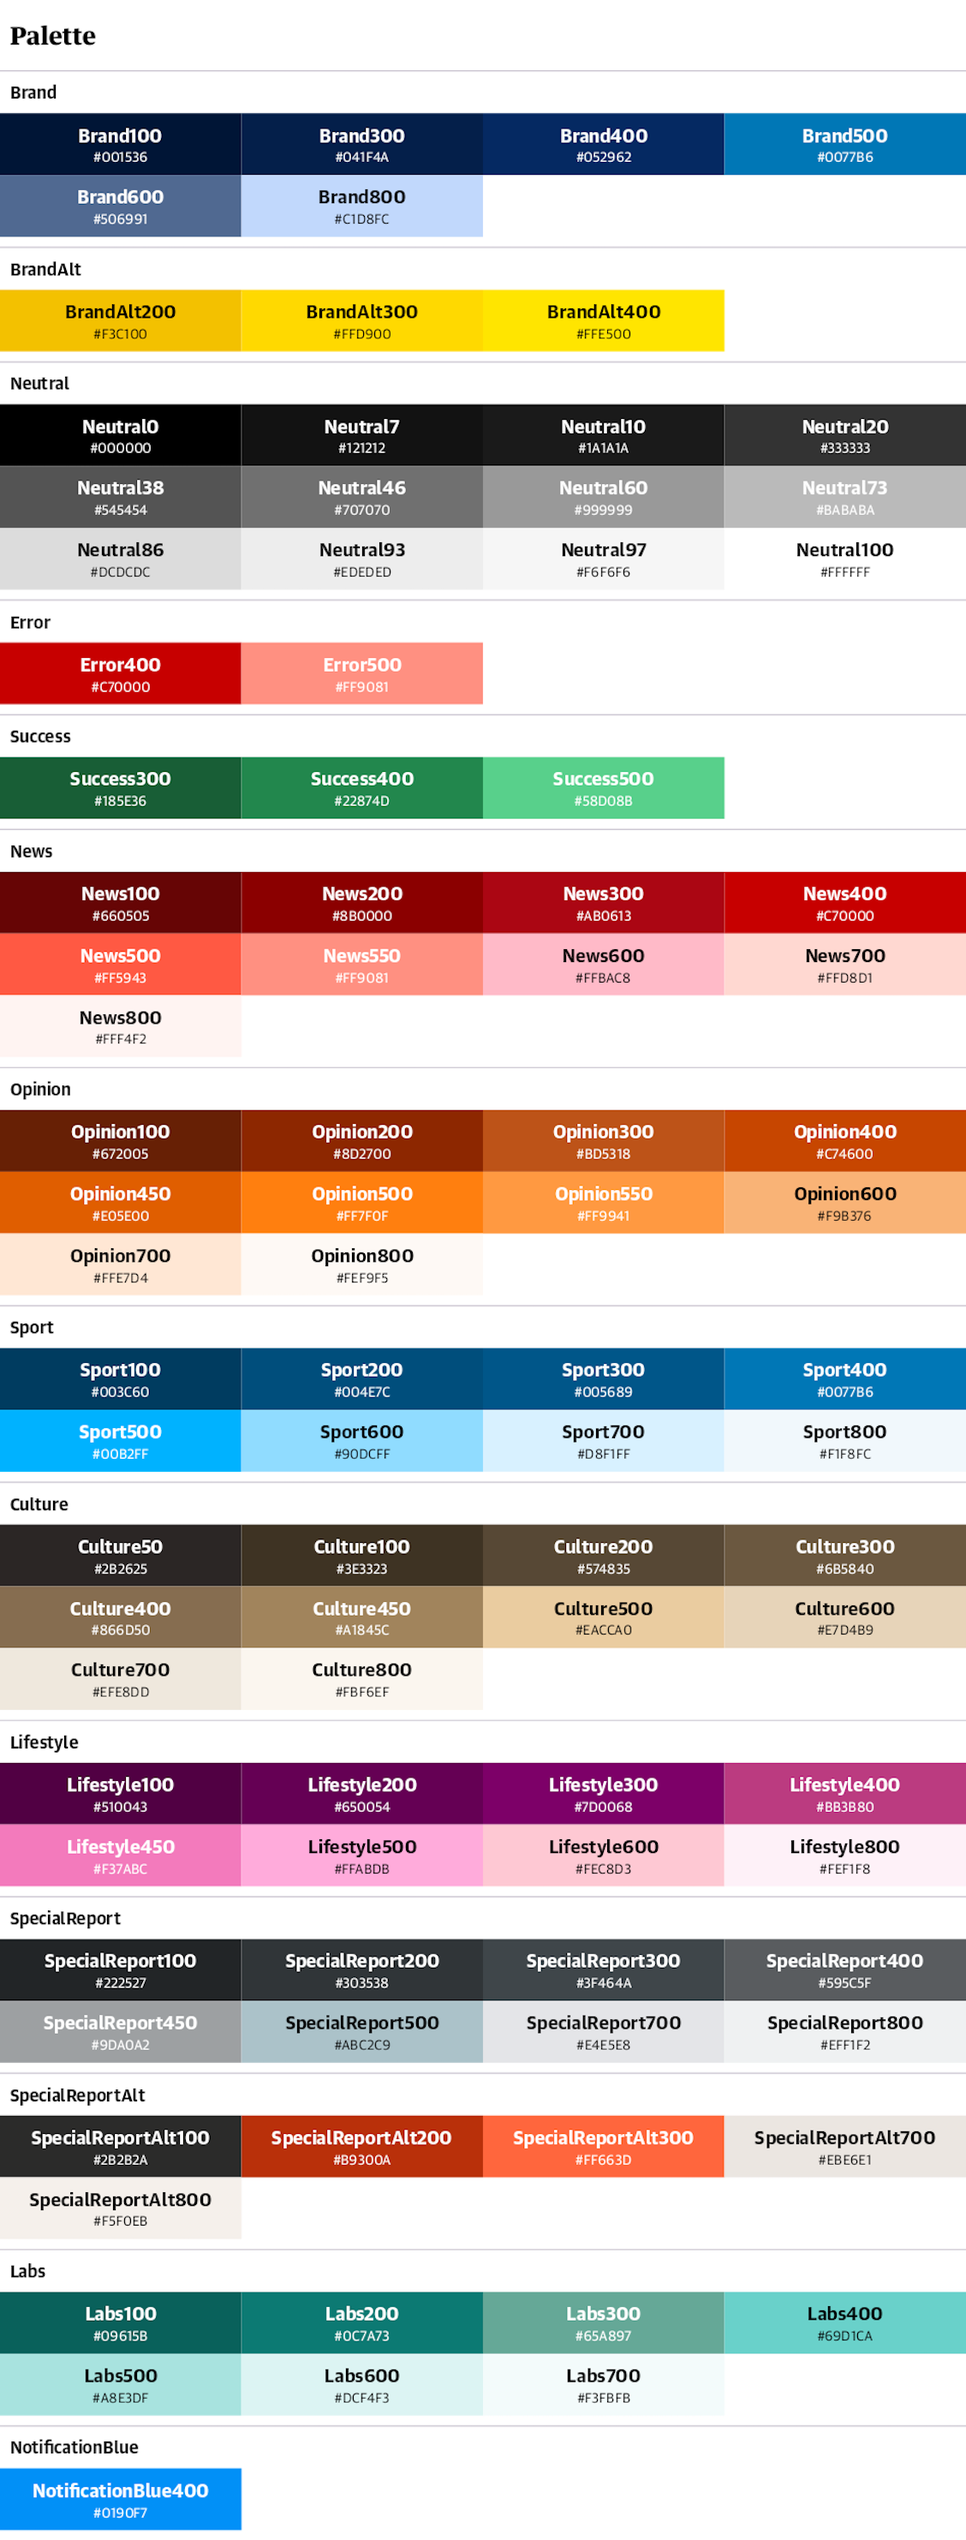
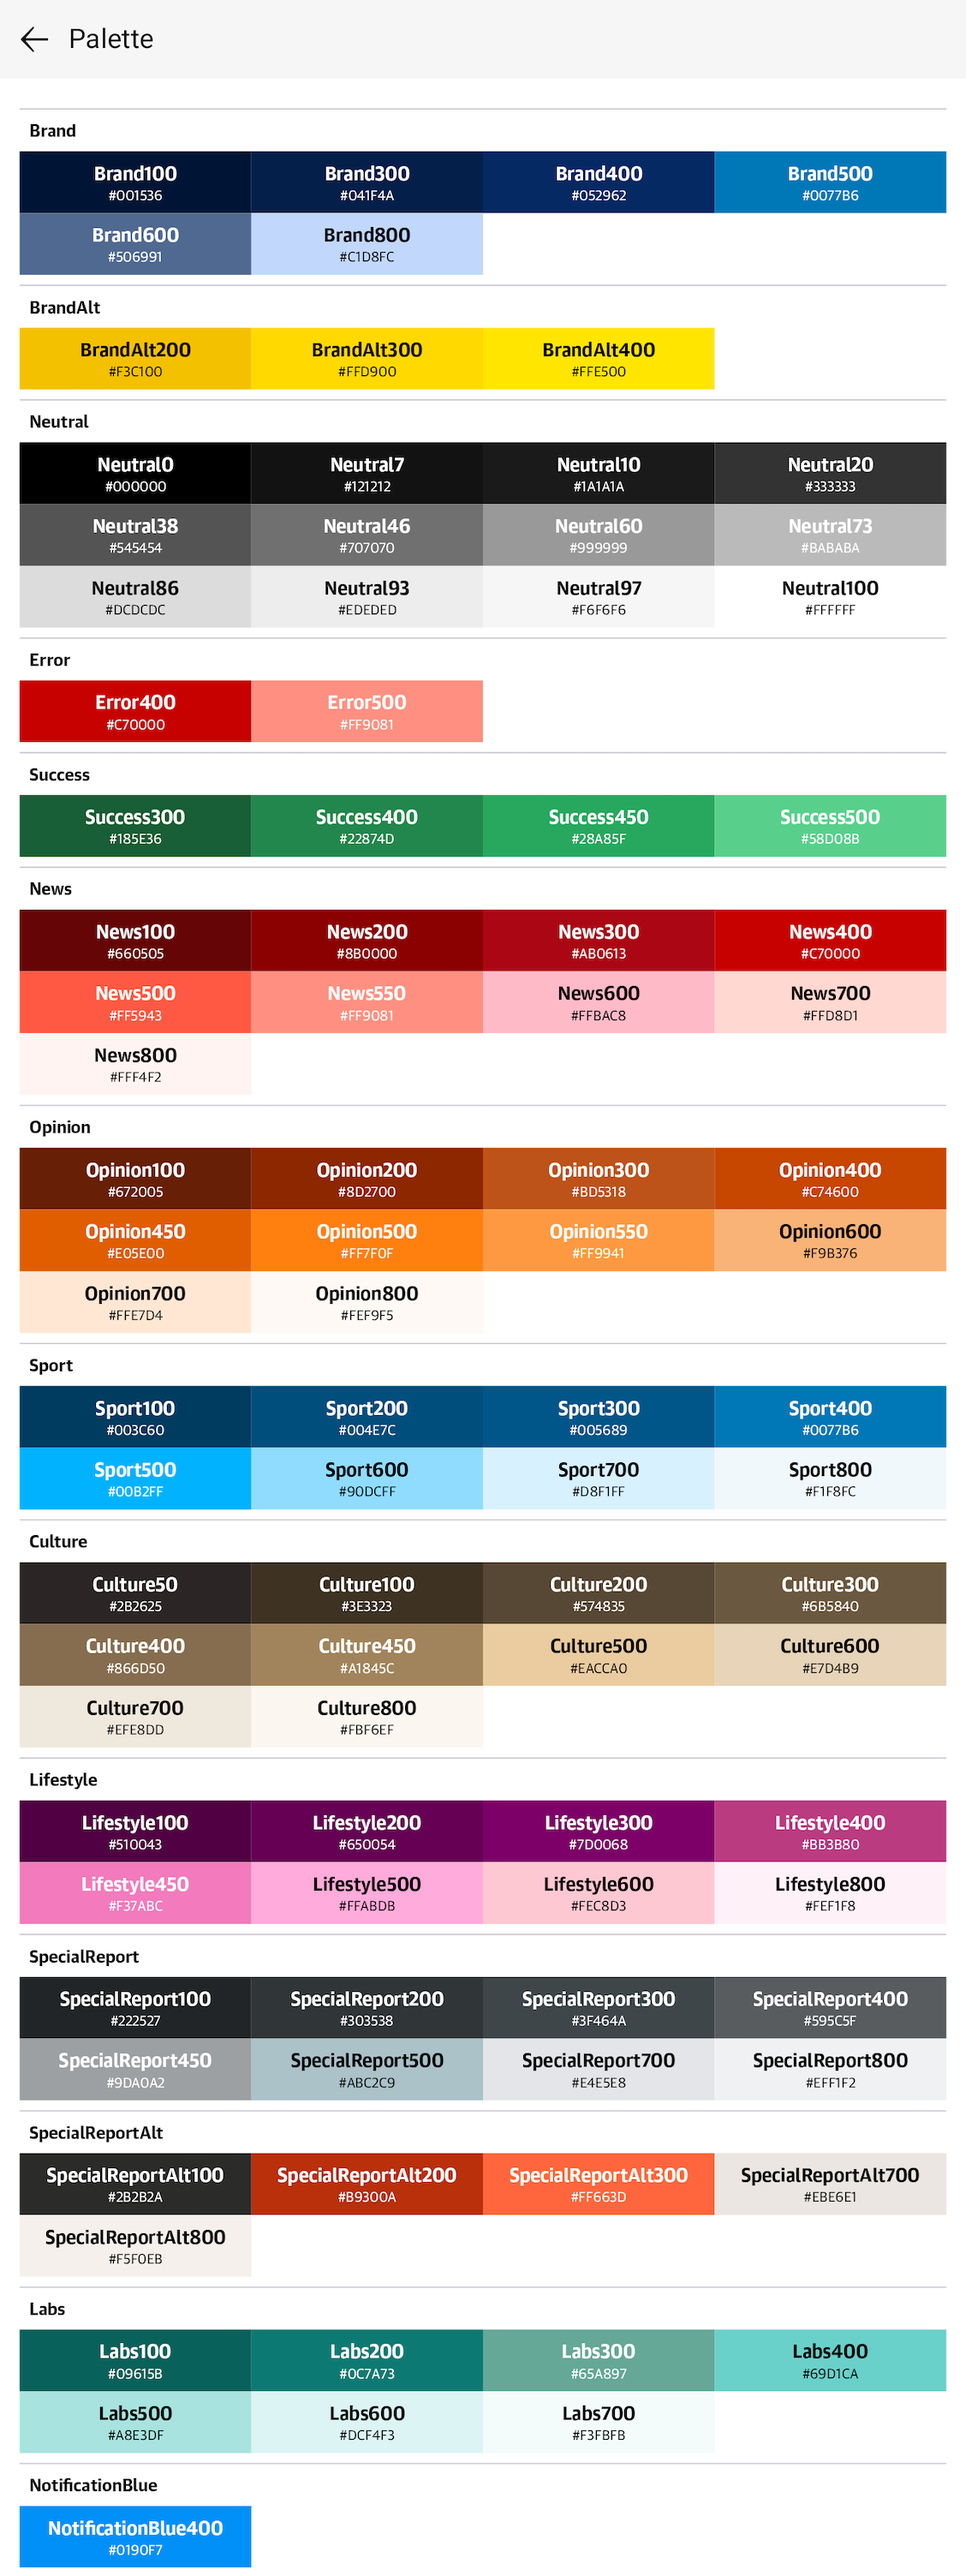
add success 450 colour

diff --git a/android/sample/src/main/kotlin/com/gu/source/previews/PalettePreview.kt b/android/sample/src/main/kotlin/com/gu/source/previews/PalettePreview.kt
@@ -117,6 +117,7 @@ import com.gu.source.foundation.palette.Sport700
 import com.gu.source.foundation.palette.Sport800
 import com.gu.source.foundation.palette.Success300
 import com.gu.source.foundation.palette.Success400
+import com.gu.source.foundation.palette.Success450
 import com.gu.source.foundation.palette.Success500
 import com.gu.source.foundation.typography.TextSans11
 import com.gu.source.foundation.typography.TextSansBold14
@@ -168,6 +169,7 @@ private val colours = mapOf(
     "Success" to listOf(
         Colour("Success300", Source.Palette.Success300),
         Colour("Success400", Source.Palette.Success400),
+        Colour("Success450", Source.Palette.Success450),
         Colour("Success500", Source.Palette.Success500),
     ),
     "News" to listOf(

diff --git a/android/source/src/main/kotlin/com/gu/source/foundation/palette/Palette.kt b/android/source/src/main/kotlin/com/gu/source/foundation/palette/Palette.kt
@@ -64,6 +64,8 @@ val Source.Palette.Success300: Color
     get() = Color(color = 0xff185e36)
 val Source.Palette.Success400: Color
     get() = Color(color = 0xff22874d)
+val Source.Palette.Success450: Color
+    get() = Color(color = 0xff28a85f)
 val Source.Palette.Success500: Color
     get() = Color(color = 0xff58d08b)
 
